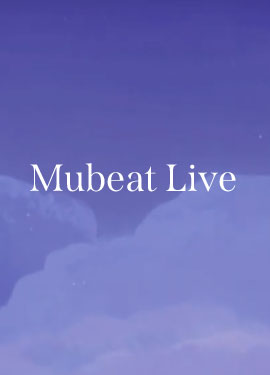
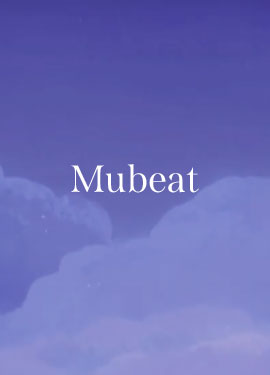
youtube appearances

Changed region(s): [[0.1185, 0.44, 0.8889, 0.5867], [0.0296, 0.7333, 0.1481, 0.8213], [0.0, 0.8213, 0.0296, 0.8507]]

diff --git a/index.html b/index.html
@@ -414,13 +414,25 @@
         <div class="catalogue-item style1 image noengsub" >
           <a class="frame" href="#mubeatlive">
             <img alt="" src="assets/images/mubeatlive_cover.jpg" loading="lazy"/>
-            <div class="caption">Mubeat Live</div>
+            <div class="caption">Mubeat</div>
           </a>
         </div>
         <div class="catalogue-item style1 image noengsub" >
           <a class="frame" href="#ifland">
             <img alt="" src="assets/images/ifland_cover.jpg" loading="lazy"/>
             <div class="caption">Ifland K-Pop Show</div>
+          </a>
+        </div>
+        <div class="catalogue-item style1 image" >
+          <a class="frame" href="#anirollz">
+            <img alt="" src="assets/images/anirollz_cover.jpg" loading="lazy"/>
+            <div class="caption">Anirollz</div>
+          </a>
+        </div>
+        <div class="catalogue-item style1 image noengsub" >
+          <a class="frame" href="#ganghwa">
+            <img alt="" src="assets/images/ganghwa_cover.jpg" loading="lazy"/>
+            <div class="caption">Ganghwa Gallery</div>
           </a>
         </div>
         </div>
@@ -1721,10 +1733,11 @@
         <div class="bckgndimage-container">
             <img src="assets/images/mubeatlive_bckgnd.jpg" alt="Background Image" class="background-image" loading="lazy" />
             <div class="overlay-content">
-                <h1>Mubeat Live</h1>
-                <p>BAE173 answer interview questions and play variety style games in a live show!</p>
+                <h1>Mubeat</h1>
+                <p>BAE173 answer interview questions and play variety style games on the Mubeat channel</p>
                 <div class="button2-container">
-                    <a href="https://www.youtube.com/watch?v=P5Ck3jayncc" class="button2">Youtube Video Link</a>
+                    <a href="https://www.youtube.com/watch?v=P5Ck3jayncc" class="button2">2022 Live Fanmeeting</a>
+                    <a href="https://www.youtube.com/watch?v=P5Ck3jayncc" class="button2">2024 Drawing Game</a>
                 </div>                
               </div>
           </div>
@@ -1743,6 +1756,38 @@
                     <a href="https://youtu.be/9anbpp7MqXw?feature=shared" class="button2">Junseo, Bit, J-Min and Muzin</a>
                     <a href="https://youtu.be/Hg9O1LgxN2s?feature=shared" class="button2">J-Min, Hangyul, Yoojun and Youngseo</a>
                     <a href="https://www.youtube.com/playlist?list=PLHTheVE9BNQaZQLl8LTqqezRGveRja04m" class="button2">Youtube Playlist</a>
+                </div>                
+              </div>
+          </div>
+                  <div class="top-banner">
+            <a href="#catalogue">← BACK TO BAEFLIX</a>
+        </div>
+       </section>
+
+       <section class="inactive" id="anirollz-section" style="display: none;">
+        <div class="bckgndimage-container">
+            <img src="assets/images/anirollz_bckgnd.jpg" alt="Background Image" class="background-image" loading="lazy" />
+            <div class="overlay-content">
+                <h1>Anirollz</h1>
+                <p>Hangyul and Doha make strawberry roll cake together.</p>
+                <div class="button2-container">
+                    <a href="https://youtu.be/FdG8nWLxtqw?si=5XRiRTa5k9ZWVzTZ" class="button2">Watch on Youtube</a>
+                </div>                
+              </div>
+          </div>
+                  <div class="top-banner">
+            <a href="#catalogue">← BACK TO BAEFLIX</a>
+        </div>
+       </section>
+
+       <section class="inactive" id="ganghwa-section" style="display: none;">
+        <div class="bckgndimage-container">
+            <img src="assets/images/ganghwa_bckgnd.jpg" alt="Background Image" class="background-image" loading="lazy" />
+            <div class="overlay-content">
+                <h1>Ganghwa Gallery</h1>
+                <p>Hangyul and Doha visit an interactive art gallery together.</p>
+                <div class="button2-container">
+                    <a href="https://www.youtube.com/watch?v=pYQbUrlz12o" class="button2">Watch on Youtube</a>
                 </div>                
               </div>
           </div>
